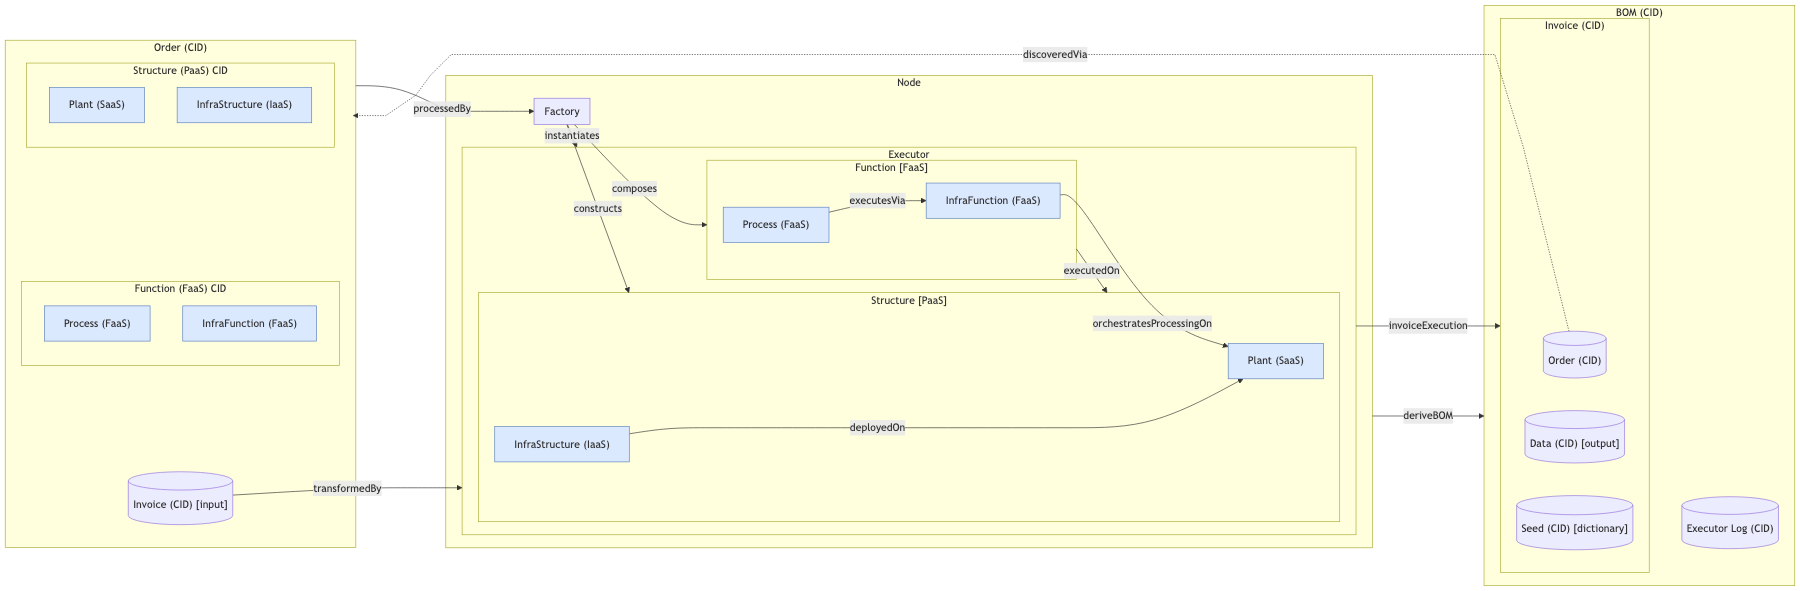
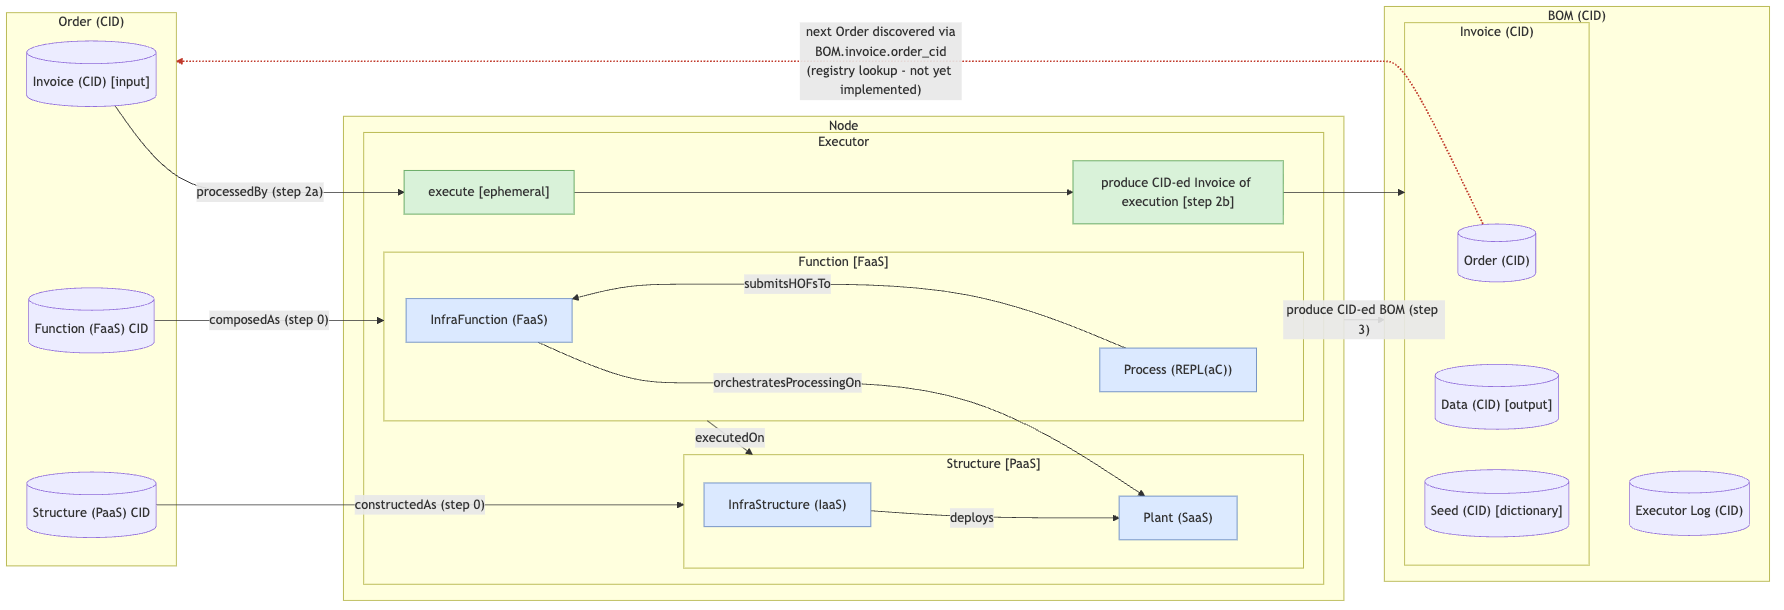
Clarify tHOF vs transport and Invoice feedback
docs(readme,bom,design,node): reserve tHOF for integrated_subproc;
 document interim Invoice stage CIDs until Seed; align Process/
 InfraFunction comments and PLANTs wording

diff --git a/data/input/function/infrafunction.py b/data/input/function/infrafunction.py
@@ -3,10 +3,12 @@ import pyarrow.fs
 from ray.job_submission import JobStatus, JobSubmissionClient
 
 
-# InfraFunction (FaaS): orchestrates Process (FaaS) onto the Plant (SaaS)
-# via the Ray Job Submission API, dispatching `integrated_subproc` as a
-# real Ray job against the deployed KubeRay cluster instead of running it
-# in an ephemeral, local Ray session.
+# InfraFunction (FaaS): actuator that receives the Transfer Higher-Order Function
+# (tHOF) — Process [REPL(aC)]'s `integrated_subproc` — and dispatches it onto
+# the Plant (SaaS) via the Ray Job Submission API as a real Ray job against the
+# deployed KubeRay cluster instead of running it in an ephemeral, local Ray
+# session. Ingress / integration_cache / egress are transport callables and are
+# not dispatched here.
 #
 # Runs inside the Ray cluster (the job's working_dir becomes its cwd).
 # `ray.init()` inside `integrated_subproc` (e.g. process_0/process_1)
@@ -19,14 +21,14 @@ from ray.job_submission import JobStatus, JobSubmissionClient
 # remote Ray cluster can't resolve since it doesn't have this repo
 # installed. cloudpickle instead serializes the function by value.
 #
-# `integrated_subproc` (Process [FaaS]) is a pure transfer function - it
-# just returns the transformed Dataset. Delivering that Dataset into the
-# shared MinIO bucket is this actuator's own responsibility, kept here
-# rather than in Process, so each of the job's write tasks can run on
-# whichever node executes it rather than all needing to land on this
-# node's disk. Builds its own S3FileSystem against MinIO (reachable from
-# inside this job's pod via the kind Docker network's gateway IP, not any
-# in-cluster Service - see minio_endpoint_pod).
+# `integrated_subproc` is the pure transfer function / tHOF - it returns the
+# transformed Dataset only. Delivering that Dataset into the shared MinIO
+# bucket is this actuator's responsibility, kept here rather than in Process,
+# so each of the job's write tasks can run on whichever node executes it
+# rather than all needing to land on this node's disk. Builds its own
+# S3FileSystem against MinIO (reachable from inside this job's pod via the
+# kind Docker network's gateway IP, not any in-cluster Service - see
+# minio_endpoint_pod).
 _INFRAFUNCTION_ENTRYPOINT_SCRIPT = '''\
 import json
 import ray.cloudpickle as cloudpickle

diff --git a/cats/network/__init__.py b/cats/network/__init__.py
@@ -214,16 +214,19 @@ class MeshClient(CoD):
             'infrastructure_cid': infrastructure_cid,
         }))
         data_cid, dir_name = self.cidDir(data_dirpath)
-        # Process (FaaS): the Functional Data Processors themselves.
+        # Process [REPL(aC)]: composes transport callables (ingress,
+        # integration_cache, egress) plus the tHOF (integrated_subproc —
+        # input→output data transform). Process is the composer, not a tHOF.
         process = {
             'ingress_subproc_cid': self.ipfsClient.add_pyobj(ingress_subproc),
             'integrated_subproc_cid': self.ipfsClient.add_pyobj(integrated_subproc),
             'egress_subproc_cid': self.ipfsClient.add_pyobj(egress_subproc),
             'integration_cache_subproc_cid': self.ipfsClient.add_pyobj(integration_cache_subproc),
         }
-        # InfraFunction (FaaS): the orchestrator that dispatches Process
-        # onto the Plant (see Processor.Integration() in
-        # cats/executor/function/__init__.py).
+        # InfraFunction (FaaS): actuator that dispatches the tHOF
+        # (integrated_subproc) onto the Plant (see Processor.Integration() in
+        # cats/executor/function/__init__.py). Transport callables are not
+        # Plant jobs.
         infrafunction = {
             'infrafunction_subproc_cid': self.ipfsClient.add_pyobj(infrafunction_subproc),
         }

diff --git a/cats/node.py b/cats/node.py
@@ -11,13 +11,13 @@ os.environ.setdefault('RAY_ENABLE_UV_RUN_RUNTIME_ENV', '0')
 
 # Running this file by path (`python cats/node.py`) only puts its own
 # directory - not the repo root - on sys.path. `data/` (holding Process
-# [FaaS]'s ingress/egress/integration functions in
-# data/input/function/process.py and InfraFunction [FaaS]'s dispatch
-# functions in data/input/function/infrafunction.py) lives at the repo
-# root, sibling to `cats/`, and isn't part of the installed `cats`
-# package - so it's only importable once the repo root is on sys.path.
-# That's needed here because InfraFunction unpickles those functions by
-# their `data.input.function.process`/`data.input.function.infrafunction`
+# [REPL(aC)] transport callables and the tHOF / integrated_subproc in
+# data/input/function/process.py, and InfraFunction [FaaS]'s actuator in
+# data/input/function/infrafunction.py) lives at the repo root, sibling
+# to `cats/`, and isn't part of the installed `cats` package - so it's
+# only importable once the repo root is on sys.path. That's needed here
+# because InfraFunction unpickles those functions by their
+# `data.input.function.process`/`data.input.function.infrafunction`
 # module paths (see cats/executor/function/__init__.py), which requires
 # `import data` to succeed in *this* process.
 REPO_ROOT = os.path.dirname(os.path.dirname(os.path.abspath(__file__)))

diff --git a/cats_demo.py b/cats_demo.py
@@ -61,7 +61,14 @@ def _(INPUT_DATA_HOME, INPUT_STRUCTURE_HOME, meshClient, pprint):
         endpoint="http://127.0.0.1:5000/cat/node/init",
     )
     pprint(cat_order_request_0)
-    return cat_order_request_0, egress, infrafunction_subproc, ingress, integration_cache, process_1
+    return (
+        cat_order_request_0,
+        egress,
+        infrafunction_subproc,
+        ingress,
+        integration_cache,
+        process_1,
+    )
 
 
 @app.cell(hide_code=True)

diff --git a/docs/BOM.md b/docs/BOM.md
@@ -2,7 +2,7 @@
 
 Each of the Architectural Quantum's four components (Function, InfraFunction, Structure, InfraStructure) is content-addressed independently, then paired back together as a small JSON object so the Order records both halves under a single CID:
 
-- `order.function_cid` resolves to `{process_cid, infrafunction_cid}` — `process_cid` is Process (FaaS): the Functional Data Processors themselves (`ingress_subproc_cid`, `integrated_subproc_cid`, `egress_subproc_cid`, `integration_cache_subproc_cid`); `infrafunction_cid` is InfraFunction (FaaS): the orchestrator that dispatches Process onto the Plant (`infrafunction_subproc_cid`).
+- `order.function_cid` resolves to `{process_cid, infrafunction_cid}` — `process_cid` is Process [REPL(aC)]: a Read-Eval-Print Loop as Code that composes and submits callables as (`ingress_subproc_cid`, `integration_cache_subproc_cid`, `integrated_subproc_cid`, `egress_subproc_cid`). Of those, only `integrated_subproc_cid` is the Transfer Higher-Order Function (tHOF) — the input→output data transform (see [transfer function](https://en.wikipedia.org/wiki/Transfer_function)); ingress / integration_cache / egress are transport callables. `infrafunction_cid` is InfraFunction (FaaS): the actuator (`infrafunction_subproc_cid`) that receives that tHOF and dispatches it onto the Plant.
 - `order.structure_cid` resolves to `{plant_cid, infrastructure_cid}` — `plant_cid` is the CID of the whole `modules/plant` Terraform directory (kind cluster + Helm releases that constitute Plant, SaaS); `infrastructure_cid` is the CID of the whole `modules/infrastructure` Terraform directory (the IPFS/Docker transport layer and MinIO deployment that constitute InfraStructure, IaaS).
 
 Both are built in `create_order_request()` (`cats/network/__init__.py:193-248`) and unpacked back into modules on disk by `getEnhancedBom()` (`cats/network/__init__.py:379-410`) so the fetched Structure stays directly `terraform apply`-able. `plant_cid`/`infrastructure_cid` are each a whole-directory CID (added recursively via `cidDir()`, `cats/network/__init__.py:172-185`) — `ipfs ls`-ing one lists that Terraform module's actual files (e.g. `main.tf`, `outputs.tf`, `variables.tf` for `plant_cid`; `main.tf`, `outputs.tf`, `minio_compose.yaml`, `ipfs_transport_compose.yaml`, `ipfs_connect_peers.sh` for `infrastructure_cid`) — whereas `process_cid`/`infrafunction_cid` are each a CID of a small JSON object of `*_subproc_cid`s, not a directory. A real `structure_cid` fetched via `ipfs cat` looks like:
@@ -27,8 +27,19 @@ The resulting BOM then pairs each of those *specified-as-code* CIDs with an *obs
   {"minio_bucket":"cats-scratch","minio_endpoint_host":"http://127.0.0.1:9000","minio_endpoint_pod":"http://172.19.0.1:9000"}
   ```
 
-Concretely, `InfraFunction` (`data/input/function/infrafunction.py`'s `infrafunction_subproc`, the actuator) dispatches `integrated_subproc` (Process's `_run_ray_batches`, a pure transfer function in `data/input/function/process.py` with no knowledge of MinIO) as a real Ray Job via the Ray Job Submission API onto the Plant's live Ray cluster rather than running it in-process; the job's entrypoint script (`infrafunction.py`'s `_INFRAFUNCTION_ENTRYPOINT_SCRIPT`) then delivers the returned Dataset by writing its output blocks directly to the shared MinIO bucket from whichever node executes each write task — genuinely distributed, rather than gathering the whole result set onto one node first. `bom.infrastructure_snapshot_cid` is what lets a downstream verifier confirm which shared store that distributed write actually landed in.
+Concretely, `InfraFunction` (`data/input/function/infrafunction.py`'s `infrafunction_subproc`, the actuator) dispatches `integrated_subproc` (Process's `process_0` / `process_1` via `_run_ray_batches` in `data/input/function/process.py` — the pure transfer function / tHOF, with no knowledge of MinIO) as a real Ray Job via the Ray Job Submission API onto the Plant's live Ray cluster rather than running it in-process. Ingress, integration_cache, and egress are not dispatched onto the Plant; they run as local transport around that job. The job's entrypoint script (`infrafunction.py`'s `_INFRAFUNCTION_ENTRYPOINT_SCRIPT`) then delivers the returned Dataset by writing its output blocks directly to the shared MinIO bucket from whichever node executes each write task — genuinely distributed, rather than gathering the whole result set onto one node first. `bom.infrastructure_snapshot_cid` is what lets a downstream verifier confirm which shared store that distributed write actually landed in.
 
 Neither snapshot CID is re-consumed downstream to drive further behavior — their purpose is purely to make the executed Plant/InfraStructure state part of the CAT's permanent, content-addressed record. `flatten_bom()` currently only fetches `plant_snapshot_cid` back out into `flat_bom['plant']` for human-readable inspection; `infrastructure_snapshot_cid` isn't flattened the same way yet, so it's only reachable by `ipfs cat`-ing it directly out of the raw `bom` dict.
+
+### Invoice stage CIDs (interim feedback; Seed deferred)
+
+After `Executor.execute()` (`cats/factory/__init__.py`), the Invoice records stage products for Control-Feedback Loop feedback until Seed is implemented ([#187](https://github.com/DynamicalSystemsGroup/cats/issues/187)):
+
+- `invoice.data_cid` — egress / output data CID (existing)
+- `invoice.ingress_data_cid` — CID produced by ingress transport
+- `invoice.integration_data_cid` — CID of Plant integration outputs after the tHOF runs
+- `invoice.seed_cid` — still `null` until Seed is populated
+
+The BOM `log` mirrors those stage CIDs as `ingress_data_cid` / `integration_data_cid` / `egress_data_cid` (plus `plant_rebuilt`). Plant input for the tHOF is the host path returned by `integration_cache` under `INTEGRATION_INPUT_DATA_CACHE`, not an Ingress side-channel path.
 
 See also: [Design: How the Architectural Quantum is realized as content-addressed CIDs](DESIGN.md#how-the-architectural-quantum-is-realized-as-content-addressed-cids) and [Lineage of Provenance: How are CATs composed as a Lineage of Data Provenance on a Data Mesh?](LineageOfProvenance.md#how-are-cats-composed-as-a-lineage-of-data-provenance-on-a-data-mesh).

diff --git a/docs/DESIGN.md b/docs/DESIGN.md
@@ -23,9 +23,9 @@ The Quantum's "smallest unit of architecture... with high functional cohesion" i
 
 - `order_cid` resolves to `{invoice_cid, function_cid, structure_cid}` - the Order's Input Invoice, Function (as Code), and Structure (as Code), each independently content-addressed.
 - `structure_cid` resolves to `{plant_cid, infrastructure_cid}` - Structure (**PaaS** as **IaC**) is CID-ed as the pairing of the Plant (SaaS) it provisions and the InfraStructure (IaaS) that provisions it.
-- `function_cid` resolves to `{process_cid, infrafunction_cid}` - Function (FaaS) is CID-ed as the pairing of the Process (FaaS) it executes and the InfraFunction (FaaS) that orchestrates it.
+- `function_cid` resolves to `{process_cid, infrafunction_cid}` - Function (FaaS) is CID-ed as the pairing of Process [REPL(aC)] (the Read-Eval-Print Loop as Code that composes and submits transport callables plus a Transfer Higher-Order Function [tHOF] — the input→output data transform) and the InfraFunction (FaaS) actuator that dispatches that tHOF onto the Plant.
 
-The **Factory** reconstitutes this Quantum at runtime with the same composition it was CID-ed with: it composes `Function` and constructs `Structure` from the Order's `function_cid`/`structure_cid`, then instantiates the **Executor** with them as its dependencies. Each in turn composes its own CID-ed sub-component the same way - `Structure` composes its `Plant` from its `InfraStructure`, and `Function` composes its `Processor` from its `InfraFunction` - so Function (FaaS) executes on Structure (PaaS) by InfraFunction (FaaS) orchestrating Plant (SaaS), exactly as the Quantum's applied disciplines describe below. The Executor itself - not a layer above it - is what produces the resulting **Invoice CID**, so the whole Order-in/Invoice-out cycle stays within the one independently-deployable, functionally-cohesive unit the Quantum principle calls for. (* **[CID-level details](BOM.md)**, * **[Lineage-of-Provenance context](LineageOfProvenance.md)**)
+The **Factory** reconstitutes this Quantum at runtime with the same composition it was CID-ed with: it composes `Function` and constructs `Structure` from the Order's `function_cid`/`structure_cid`, then instantiates the **Executor** with them as its dependencies. Each in turn composes its own CID-ed sub-component the same way - `Structure` composes its `Plant` from its `InfraStructure`, and `Function` composes its `Processor` from its `InfraFunction` - so Function (FaaS) executes on Structure (PaaS) by InfraFunction (FaaS) dispatching the tHOF (`integrated_subproc`) submitted by Process [REPL(aC)] onto Plant (SaaS), while ingress / integration_cache / egress run as local transport around that dispatch, exactly as the Quantum's applied disciplines describe below. Composition stays on the Order CID graph (sequential Executor stages); interim Control-Feedback Loop feedback uses Invoice stage CIDs (`ingress_data_cid`, `integration_data_cid`, `data_cid`) until Seed is implemented. The Executor itself - not a layer above it - is what produces the resulting **Invoice CID**, so the whole Order-in/Invoice-out cycle stays within the one independently-deployable, functionally-cohesive unit the Quantum principle calls for. (* **[CID-level details](BOM.md)**, * **[Lineage-of-Provenance context](LineageOfProvenance.md)**)
 
 ### Collaborative value of CATs Architectural Quantum:
 The operation and maintenance of CATs’ Data Products on a Data Mesh can occur between independent teams that will 
@@ -38,9 +38,8 @@ and maintain the different portions of the entire Web2 cloud service model based
 * Applied discipline for **Functions (FaaS)**
   * **Data Science** involves exploratory data analysis (EDA), data cleaning and visualization, and 
   predictive modeling / machine learning to inform Control Plane decisions and strategies. 
-  * **Machine Learning Engineering** involves the development, training, performance optimizing, and deployment of machine 
-  learning models as scalable **Integration** sub-Processes (FaaS) orchestrated by InfraFunction (FaaS). 
-  * **Data Analysis** involves the composition of Data Product’s InfraFunctions as data processing language (integration).
+  * **Machine Learning Engineering** involves the development, training, performance optimizing, and deployment of machine learning models as a scalable **Integration** function composed in Process [REPL(aC)] and dispatched onto Plant by InfraFunction (FaaS). 
+  * **Data Analysis** involves evaluating performance of and implimenting the Process [REPL(aC)] using a data processing language and sheduling them for submition to the InfraFunction [FaaS] for execution.
   * The CAT Order is updated with the inclusion of resulting mutated Functions (FaaS) for execution processed by CATs 
   Factory Client.
 * Applied discipline for **Structure (PaaS** as **IaC)**

diff --git a/README.md b/README.md
@@ -73,21 +73,13 @@ The Action Plane is the Analytical Data Processing interface. The Action Plane o
 
 #### Quantum Architecture Description as a [Minimal Federated Operating Model](https://www.starburst.io/blog/data-mesh-book-bulletin-principle-of-federated-computational-governance/)
 
-- **Function** is a FaaS for scalable Data Processing and analytics executed as CAT **Processes**. Functions (FaaS) are deployed 
-on Structure (PaaS) to execute Processes orchestrated by InfraFunctions (FaaS); mutating either updates the CAT Order in 
-alignment with CATs Architectural Quantum’s Functionality
-  - **Process (FaaS)** is composed of the **Functional Data Processors** that InfraFunction (FaaS) executes on Structure (PaaS), and contextualizes with pre and post processed data. Process (FaaS) is executed with and made orchestratable by InfraFunction (FaaS) to support the following use-cases
-    - With the inclusion of resulting mutated Functions (FaaS): mutating a Function (FaaS)'s Process produces a new 
-    Order whose `function_cid` reflects that update, for the Node's Factory to process on the next execution (*)
-  - **InfraFunction (FaaS) is a Data Processing orchestrator** that composes Process and dispatches its 
-  configurable execution onto the Plant (SaaS)
-    - Mutating InfraFunction (FaaS)'s dispatch configuration produces a new Order whose updated `function_cid` 
-    carries the updated Ingress and Egress subProcesses (FaaS), alongside any resulting `structure_cid` update 
-    reflecting the Plant (SaaS) it now targets (*)
-- **Structure** (**PaaS** as **IaC**) provisions and maintains the Plant (SaaS) as Function’s (FaaS) scalable execution environment. 
-  - **Plant (SaaS)** is composed from **InfraStructure (IaaS)** as Structure's dynamically scaled execution environment of 
-  **Function (FaaS)**
-    - An Order is composed and submitted to the Node's Factory for processing via REPL UI as an interface for triggering the resulting Function [FaaS] execution - i.e. REPL UI similar to the [`cats_demo.py`](cats_demo.py) Marimo notebook
+- **Function [FaaS]** is a Function-as-a-Service for scalable Data Processing and analytics whose **Process [REPL(aC)]** composes and submits transport callables plus a Transfer Higher-Order Function (tHOF) for **InfraFunction [FaaS]** to dispatch. *Functions* are deployed on **Structure [PaaS]**; mutating either *Process* or *InfraFunction* updates the CAT **Order** in alignment with CATs *Architectural Quantum’s* Functionality
+  - **Process [REPL(aC)]** is a *Read-Eval-Print Loop as Code* (such as a Marimo notebook UI, e.g. [`cats_demo.py`](cats_demo.py)) that composes **ingress / integration_cache / egress** (transport) and **`integrated_subproc`** — the tHOF, i.e. the input→output data transform ([transfer function](https://en.wikipedia.org/wiki/Transfer_function)), often higher-order because it applies a batch function (e.g. via Ray `map_batches`). Process is the composer/submitter, not itself a tHOF. Mutating a ***Function's* Process [REPL(aC)]** composition produces a new **Order** whose `function_cid` reflects that update, for the Node's Factory to process on the next execution (*)
+  - **InfraFunction [FaaS]** is the actuator / Data Processing Orchestrator that receives the tHOF **Process [REPL(aC)]** submits and dispatches it onto the Plant (SaaS); transport callables run locally around that dispatch, not as Plant jobs
+    - Mutating InfraFunction (FaaS)'s dispatch configuration produces a new Order whose updated `function_cid` carries the updated actuator, alongside any Process-composed callable CIDs and any resulting `structure_cid` update reflecting the **Plant [SaaS]** it now targets (*)
+- **Structure [PaaS(as IaC)]** provisions and maintains the **Plant [SaaS]** as **Function’s [FaaS]** scalable execution environment. 
+  - **Plant [SaaS]** is composed from **InfraStructure [IaaS]** as **Structure's** dynamically scaled execution environment of 
+  **Function [FaaS]** — the runtime onto which **InfraFunction [FaaS]** dispatches the tHOF (`integrated_subproc`) submitted by **Process [REPL(aC)]**
   - **InfraStructure (IaaS)** provisions and maintains the dynamically scaled infrastructure that composes a Plant (SaaS).
     - The CAT Order is updated in alignment with event-driven functionality and operations: mutating InfraStructure 
     (IaaS)'s provisioning produces a new Order with an updated `structure_cid` (*)

diff --git a/docs/NodeProductFlow.md b/docs/NodeProductFlow.md
@@ -8,17 +8,19 @@
 2. The "Node" consumes an "Order" containing an input "Invoice" of input data to be processed as well as the Architectural Quantum's functional domain components that process Invoiced data; The content of the Order CID to be processed by the Node's "Factory" consists of the following: (*)
    - **A.** the CID-ed input Invoice as is within `data/input/data/*`
    - **B.** the CID-ed Architectural Quantum's functional domain components:
-     - **a.** "Function [FaaS]" consists of "Process [FaaS]" and Process' "InfraFunction [FaaS]" processing dependency
-       - Function [FaaS] (as Code) is CID-ed for which the contents consist of CIDs for Procces [FaaS] and InfraFunction [FaaS]
+     - **a.** "Function [FaaS]" consists of "Process [REPL(aC)]" and "InfraFunction [FaaS]" as its dependency
+       - Function [FaaS] (as Code) is CID-ed for which the contents consist of CIDs for Process [REPL(aC)] and InfraFunction [FaaS]
+       - Process [REPL(aC)] is a *Read-Eval-Print Loop as Code* (such as a Marimo notebook UI) that composes and submits callables: transport (ingress, integration_cache, egress) plus a Transfer Higher-Order Function / tHOF (`integrated_subproc` — the input→output data transform). Process itself is the composer, not a tHOF.
      - **b.** "Structure [PaaS]" is Function's infrastructure dependency and consists of "Plant [SaaS]" and Plant's "InfraStructure [IaaS]" infrastructure dependency
        - Structure [PaaS] (as Code) is CID-ed for which the contents consist of Plant [SaaS] and InfraStructure [IaaS] CIDs
 3. The Node's "Factory" processes an Order to produce "Executor" of an Architectural Quantum by composing Function [FaaS], constructing Structure [PaaS], then instantiating Executors with Function [FaaS] & Structure [PaaS] as its dependencies / parameters
 4. The Executor is a composition of Architectural Quantum execution that executes and Invoices the ephemeral execution of the Architectural Quantum.
-   - **A.** the Executor executes the aforemention composition as a Function [FaaS] executing on Structure [PaaS] via InfraFunction [FaaS] orchestrating the execution of Process(es) [FaaS] on the Plant [SaaS] deployed on InfraStructure [IaaS]
-   - **B.** the Executor Invoices the ephemeral execution of the Architectural Quantum by prodcuing a CID-ed Invoice containing the original CID-ed Order, an the CID-ed output Data, and a (non-deterministic proccessing) Seed (dictionary for Proccess(es) [FaaS])
+   - **A.** the Executor executes the aforemention composition as a Function [FaaS] executing on Structure [PaaS]: transport callables run locally; InfraFunction [FaaS] (the actuator) dispatches the tHOF (`integrated_subproc`) that Process [REPL(aC)] composed and submitted onto the Plant [SaaS] deployed on InfraStructure [IaaS]
+   - **B.** the Executor Invoices the ephemeral execution of the Architectural Quantum by producing a CID-ed Invoice containing the original CID-ed Order, the CID-ed output Data (`data_cid`), interim stage CIDs (`ingress_data_cid`, `integration_data_cid`), and a (non-deterministic processing) Seed (dictionary for Process [REPL(aC)]) — **Seed is specified but not yet populated** (`seed_cid` remains null; tracked by [#187](https://github.com/DynamicalSystemsGroup/cats/issues/187)); stage CIDs on the Invoice are the interim feedback surface
 5. The Node produces a CID-ed BOM containing an CID-ed Invoice and CID-ed Executor execution "logs" (*)
 
 ### Notes (*):
 
   - **2.** The Order is intended to be consumed from within a "BOM" hosted on a registry; i.e. - discovered via that BOM's "invoice.order_cid" - rather than supplied out-of-band; **this registry is not yet implemented**, such that the Node's `/cat/node/init` endpoint accepts the target `order_cid` directly as input today, standing in for the not-yet-built "look up a BOM on the registry, then consume its Order" step
+  - **4B.** Until Seed exists, compose on the Order CID graph and feedback via Invoice/BOM stage CIDs; when Seed lands, it holds the Process replay dictionary and Invoice keeps Order + output data + `seed_cid`
   - **5.** CIDs of BOMs are intended to be published to the registry (0c) for future Orders to be consumed from

diff --git a/docs/PLANTs.md b/docs/PLANTs.md
@@ -42,11 +42,11 @@ The CAT Node doesn't reduce to one single type from the "Heavy industry and engi
 **composite** that spans three of the six categories, each operating at a different structural layer:
 
 
-| Layer                                                   | Type match                            |
-| ------------------------------------------------------- | ------------------------------------- |
-| Factory (assembles the Executor from Order components)  | **Manufacturing plant**               |
-| Function [FaaS] (Process + InfraFunction)               | **Plant (control theory)**            |
-| Structure [PaaS] (Plant [SaaS] + InfraStructure [IaaS]) | **Power plant** (Power Station sense) |
+| Layer                                                          | Type match                            |
+| -------------------------------------------------------------- | ------------------------------------- |
+| Factory (assembles the Executor from Order components)         | **Manufacturing Plant**               |
+| Function [FaaS] (Process [REPL(aC)] + InfraFunction [FaaS])    | **Plant (control theory)**            |
+| Structure [PaaS] (Plant [SaaS] + InfraStructure [IaaS])        | **Power Plant** (Power Station sense) |
 
 
 No single Node-level component is a **Chemical plant** or **Heavy equipment** - those two categories have no
@@ -70,11 +70,10 @@ Per `[NodeProductFlow.md](NodeProductFlow.md)` step 0B, the Architectural Quantu
 `Structure [PaaS]`. It isn't a single type; it's the *union* of the next two rows, since it's defined as
 Function's dependency on Structure, not a standalone facility:
 
-- **Function [FaaS]** (`Process [FaaS]` + `InfraFunction [FaaS]`) -> **Plant (control theory)** as a whole -
-"the combination of process and actuator" is verbatim Function's own composition (Process = the functional
-data processor = the "process"; InfraFunction = the orchestrator dispatching it onto compute = the
-"actuator").
-  - `Process [FaaS]` alone -> the **process** half of Plant (control theory)
+- **Function [FaaS]** (`Process [REPL(aC)]` + `InfraFunction [FaaS]`) -> **Plant (control theory)** as a whole -
+"the combination of process and actuator" is verbatim Function's own composition (Process [REPL(aC)] = the
+Read-Eval-Print Loop as Code that composes and submits transport callables plus a tHOF = the "process"; InfraFunction = the actuator dispatching that tHOF onto compute).
+  - `Process [REPL(aC)]` alone -> the **process** half of Plant (control theory)
   - `InfraFunction [FaaS]` alone -> the **actuator** half of Plant (control theory)
 - **Structure [PaaS]** (`Plant [SaaS]` + `InfraStructure [IaaS]`) -> **Power plant**, specifically the Power
 Station generation+transmission/distribution model (per the caveat above).
@@ -102,7 +101,7 @@ the Manufacturing-plant output (a composed Function+Structure pair) and those co
 | CAT Node (whole)      | ✓ (via Function)       | ✓ (via Factory)     | -              | ✓ (via Structure)   | -              | -               |
 | Factory               | -                      | **✓**               | -              | -                   | -              | -               |
 | Architectural Quantum | ✓ (Function half)      | -                   | -              | ✓ (Structure half)  | -              | -               |
-| Process [FaaS]        | ✓ ("process" half)     | -                   | -              | -                   | -              | -               |
+| Process [REPL(aC)]    | ✓ ("process" half)     | -                   | -              | -                   | -              | -               |
 | InfraFunction [FaaS]  | ✓ ("actuator" half)    | -                   | -              | -                   | -              | -               |
 | Structure [PaaS]      | -                      | -                   | -              | **✓**               | -              | -               |
 | Plant [SaaS]          | -                      | -                   | -              | ✓ (generation half) | -              | -               |

diff --git a/docs/DEMO.md b/docs/DEMO.md
@@ -18,7 +18,7 @@ pandas for the mesh workflow. `uv run` (below) uses this environment automatical
 uv run python cats/node.py
 ```
 ##### 4. Establish Data (CAT) Mesh *in Terminal B*: [Demo](../cats_demo.py)
-Execute a CATs on a single node Mesh via Marimo Notebook.
+Execute CATs on a single-node Mesh via Marimo notebook — this is Process [REPL(aC)]: a Read-Eval-Print Loop as Code that composes and submits transport callables plus a Transfer Higher-Order Function (tHOF, `integrated_subproc`) for InfraFunction [FaaS] to dispatch onto Plant [SaaS].
 ```bash
 uv run marimo edit cats_demo.py
 ```
